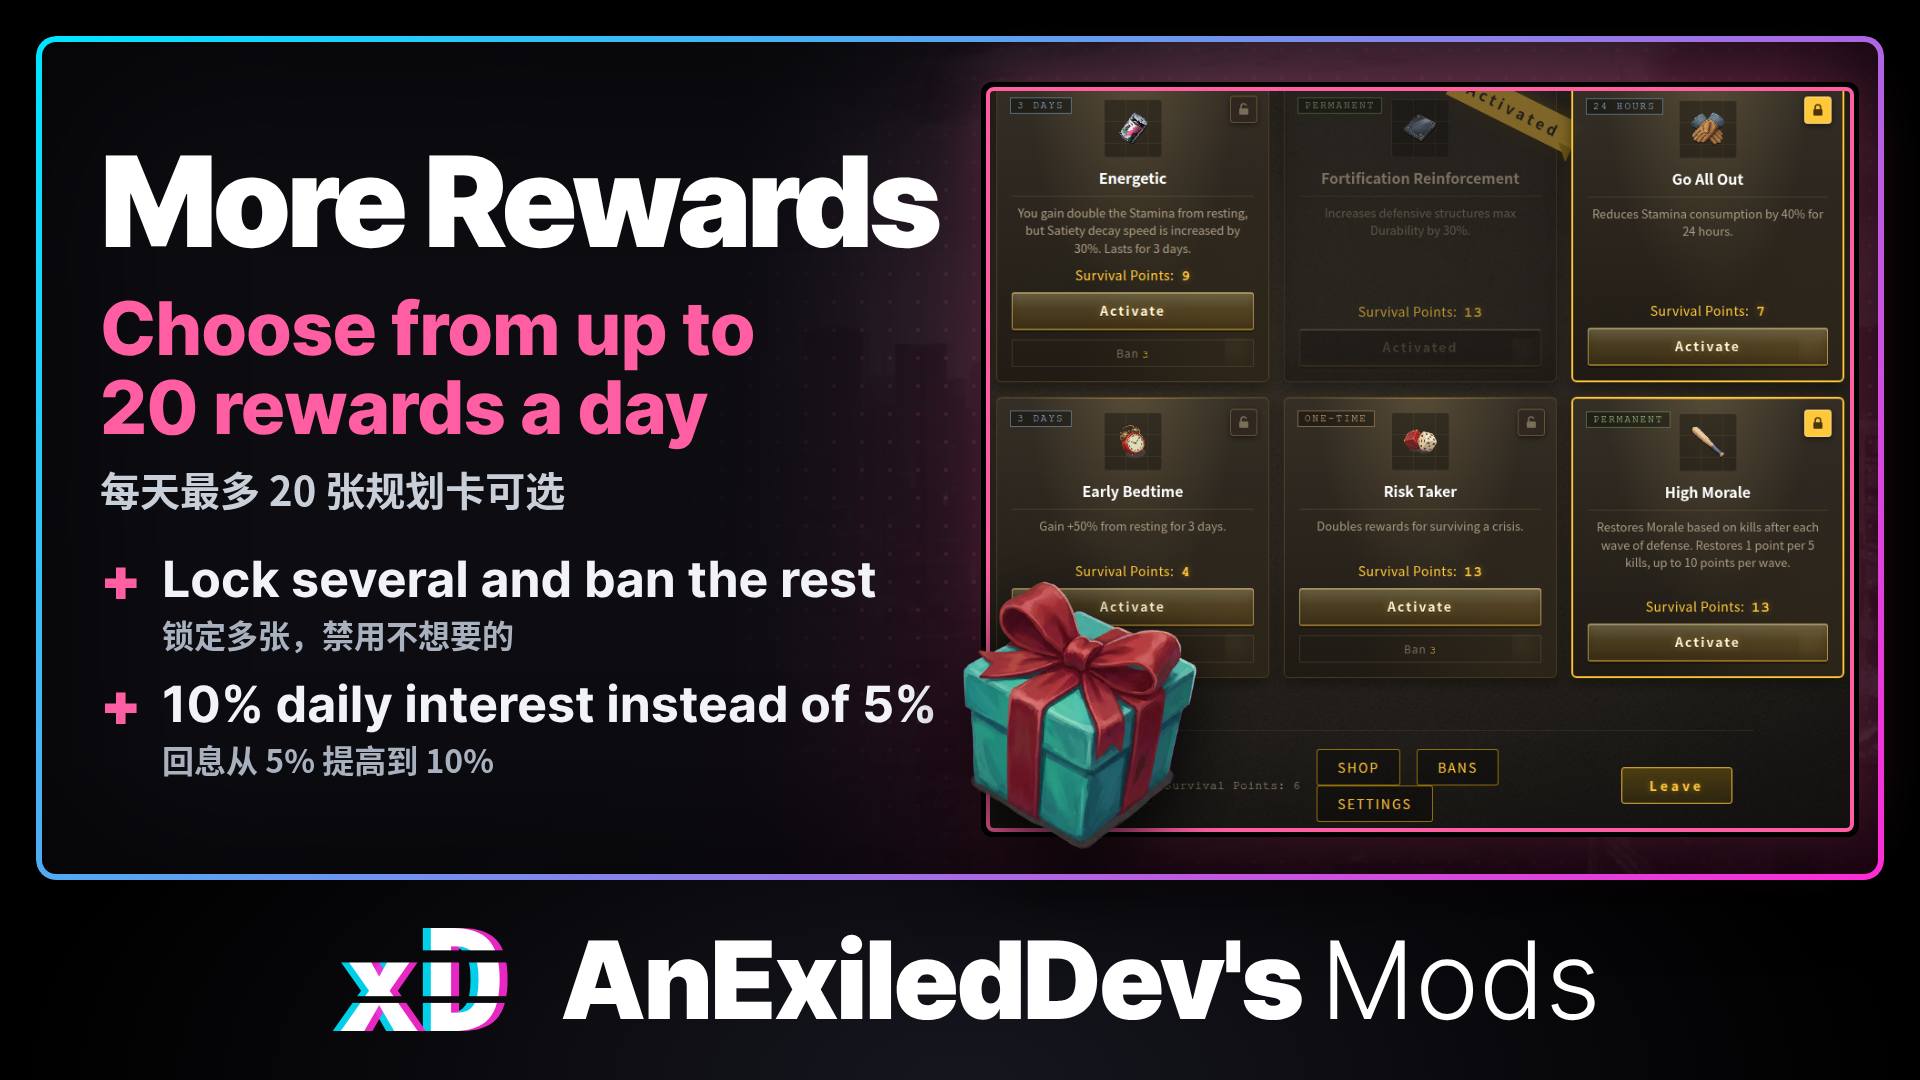
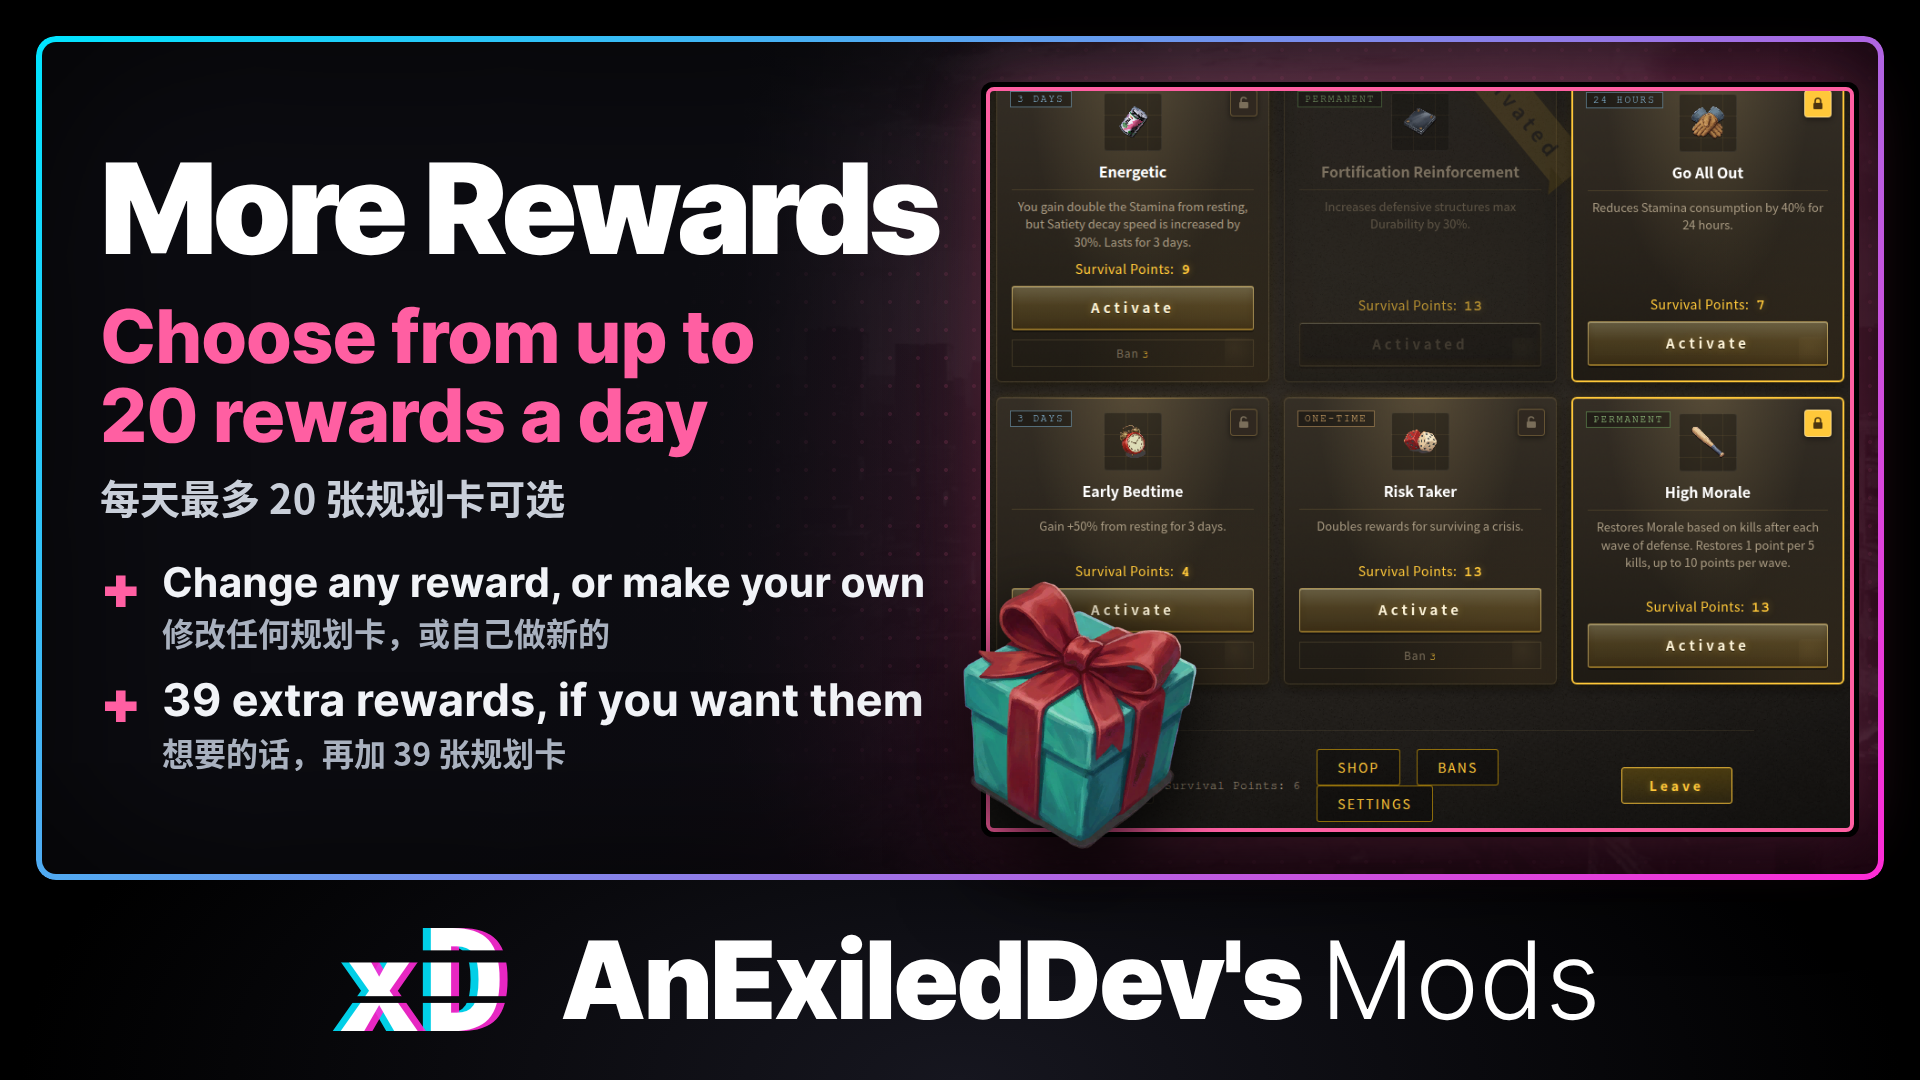
More Rewards 0.12.1: page text and media for the release
The Nexus summary and the first paragraph name the Rewards tab and the extra rewards. The images show both, with three Rewards tab screenshots. The changelog says which discounts multiply.

diff --git a/NEXUS.md b/NEXUS.md
@@ -1,10 +1,10 @@
 Name: More Rewards
-Summary: Choose from up to 20 rewards at the end of each day instead of 3, lock several, and ban the cards you do not want. Set your own daily interest on survival points, change every setting right on the rewards screen, and turn on an optional shop to search and buy any reward you can get. With more cards, they shrink into extra rows so they all fit.
+Summary: Choose from up to 20 rewards at the end of each day instead of 3, lock several, ban the ones you do not want, and change any reward or make your own on the Rewards tab. Turn on 39 extra rewards, set your own daily interest, and open an optional shop to buy any reward you can get. Every setting changes right on the rewards screen.
 
 Description (BBCode):
 [center][img]https://sldb.core-directive.com/media/save/3-remove-with-care.png[/img][/center]
 
-At the end of each day, Survival Log offers 3 rewards you can buy with survival points, and a refresh for 2 points draws 3 new ones. More Rewards lets you raise that to any number up to 20, from the same reward pool the game draws from. You can also lock several, ban the ones you do not want, and open an optional shop. By default the refresh cost goes up with the number of rewards, or you can make it free or set any cost you like. And you can raise the interest your survival points earn each day, and the most it can pay, above the game's 5% and 10.
+At the end of each day, Survival Log offers 3 rewards you can buy with survival points, and a refresh for 2 points draws 3 new ones. More Rewards lets you raise that to any number up to 20, from the same reward pool the game draws from. You can also lock several, ban the ones you do not want, and open an optional shop. By default the refresh cost goes up with the number of rewards, or you can make it free or set any cost you like. And you can raise the interest your survival points earn each day, and the most it can pay, above the game's 5% and 10. On the Mod Manager's Rewards tab you can change any reward or build your own, and the ExtraRewards setting adds 39 more.
 
 Out of the box the mod changes nothing about the game's balance. You get the game's 3 rewards, its refresh cost and its interest. Set OptionCount for more rewards, and InterestRate and MaxInterest for more interest.
 
@@ -97,7 +97,7 @@ Open source under MIT: [url=https://github.com/AnExiledDev/SurvivalLog-MoreRewar
 [line]
 [size=5]简体中文[/size]
 
-每天结束时，Survival Log 会提供 3 张可以用生存点购买的规划卡，花 2 点刷新可以换 3 张新的。More Rewards 让你把数量提高到最多 20 张，全部来自游戏本身抽卡的卡池，还能锁定多张、禁用不想要的卡，并可开启商店。默认情况下刷新花费会随规划卡数量上涨，你也可以让刷新免费，或者自定任意花费。你还可以把生存点的每日回息比例和上限提高到游戏原本的 5% 和 10 以上。
+每天结束时，Survival Log 会提供 3 张可以用生存点购买的规划卡，花 2 点刷新可以换 3 张新的。More Rewards 让你把数量提高到最多 20 张，全部来自游戏本身抽卡的卡池，还能锁定多张、禁用不想要的卡，并可开启商店。默认情况下刷新花费会随规划卡数量上涨，你也可以让刷新免费，或者自定任意花费。你还可以把生存点的每日回息比例和上限提高到游戏原本的 5% 和 10 以上。在 Mod Manager 的「奖励」页可以修改任何规划卡，或自己做新的。开启 ExtraRewards 设置还能多出 39 张。
 
 默认设置下，本模组不改变游戏的任何平衡：仍是游戏原本的 3 张规划卡、刷新花费和回息。设置 OptionCount 可以获得更多规划卡，设置 InterestRate 和 MaxInterest 可以获得更多回息。
 

diff --git a/README.md b/README.md
@@ -4,7 +4,7 @@ Choose from more rewards at the end of each day, lock more than one, ban the one
 
 Out of the box the mod changes nothing about the game's balance. You get the game's 3 rewards, its refresh cost and its interest. Set `OptionCount` for more rewards, and `InterestRate` and `MaxInterest` for more interest.
 
-At the end of each day, Survival Log offers 3 rewards you can buy with survival points, and a refresh for 2 points draws 3 new ones. More Rewards lets you raise that to any number up to 20, from the same reward pool the game draws from. By default the refresh cost goes up with the number of rewards, or you can make it free or set any cost you like. You can also raise the interest your survival points earn each day, and the most it can pay, above the game's 5% and 10.
+At the end of each day, Survival Log offers 3 rewards you can buy with survival points, and a refresh for 2 points draws 3 new ones. More Rewards lets you raise that to any number up to 20, from the same reward pool the game draws from. By default the refresh cost goes up with the number of rewards, or you can make it free or set any cost you like. You can also raise the interest your survival points earn each day, and the most it can pay, above the game's 5% and 10. On the Mod Manager's Rewards tab you can change any reward or build your own, and the `ExtraRewards` setting adds 39 more.
 
 ## Features
 

diff --git a/CHANGELOG.md b/CHANGELOG.md
@@ -38,7 +38,7 @@
 - Rewards tab: each effect's column in the levels table says "this level", since that number is what one level adds. IN TOTAL is what the player has with the levels below it.
 - Rewards tab: a new effect starts at the same number on every level. Better solar panels started at 20%, 30% and 40%, which gave 90% at level III.
 - Rewards tab: the card text the editor writes says what the player has in total from level II on, such as "In total: +30%." A reward whose text the editor wrote gets the totals the next time you change it and save.
-- Rewards tab: the totals follow how the game counts each effect. Discounts multiply, so two levels of 10% off make 19% off. Start with a skill level counts only the highest level. The note under the levels table says so.
+- Rewards tab: the totals follow how the game counts each effect. Discounts on short-life supplies and on big items multiply, so two levels of 10% off make 19% off. Furniture and settlement discounts add up. Start with a skill level counts only the highest level. The note under the levels table says so.
 - Rewards tab: Higher loan limit and Backpack keeps food longer give a raise per level, such as +300 to the loan limit, and add up like the rest.
 - Wind Collection II and III say what the levels so far give together: +30% and +45%.
 - Now needs Exiled's Toolkit 0.29.0 or newer.
